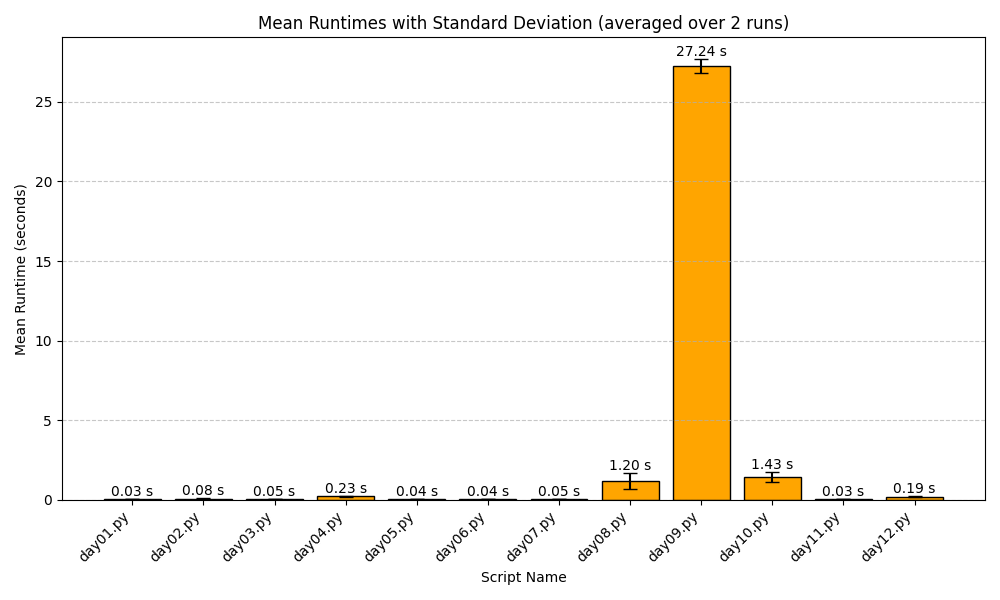
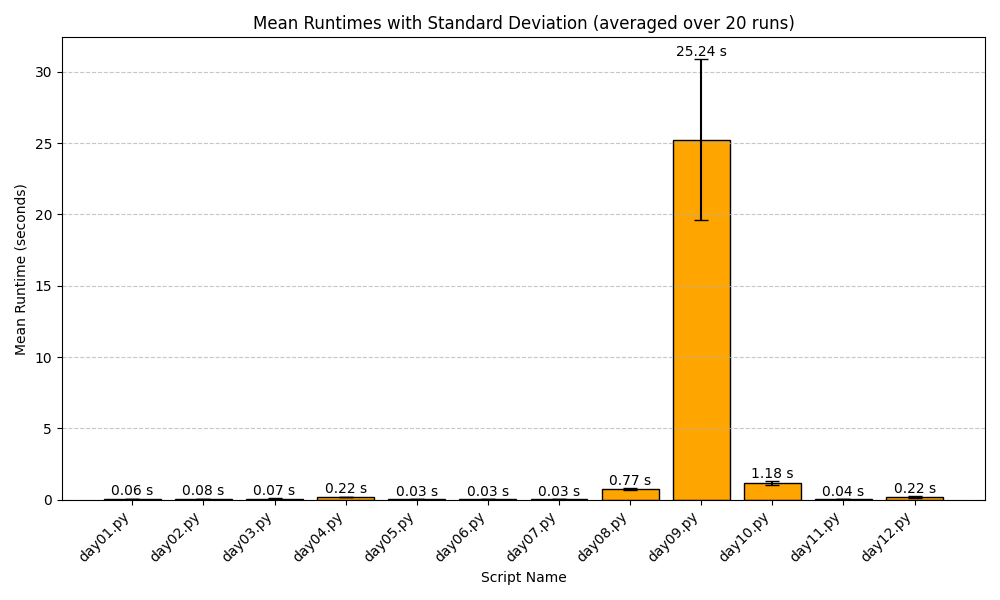
chore: runtimes with more repeats

diff --git a/2025/day10/day10.py b/2025/day10/day10.py
@@ -359,7 +359,7 @@ if __name__ == "__main__":
 
     result_2 = day10_2()  # "2025/day10/example_1.txt"
     assert result_2 == 17424, f"Real: {result_2} vs. Expected: {17424}"
-    print("Solution for day09.2:", result_2)
+    print("Solution for day10.2:", result_2)
 
 
 def day10_1_prototype(
